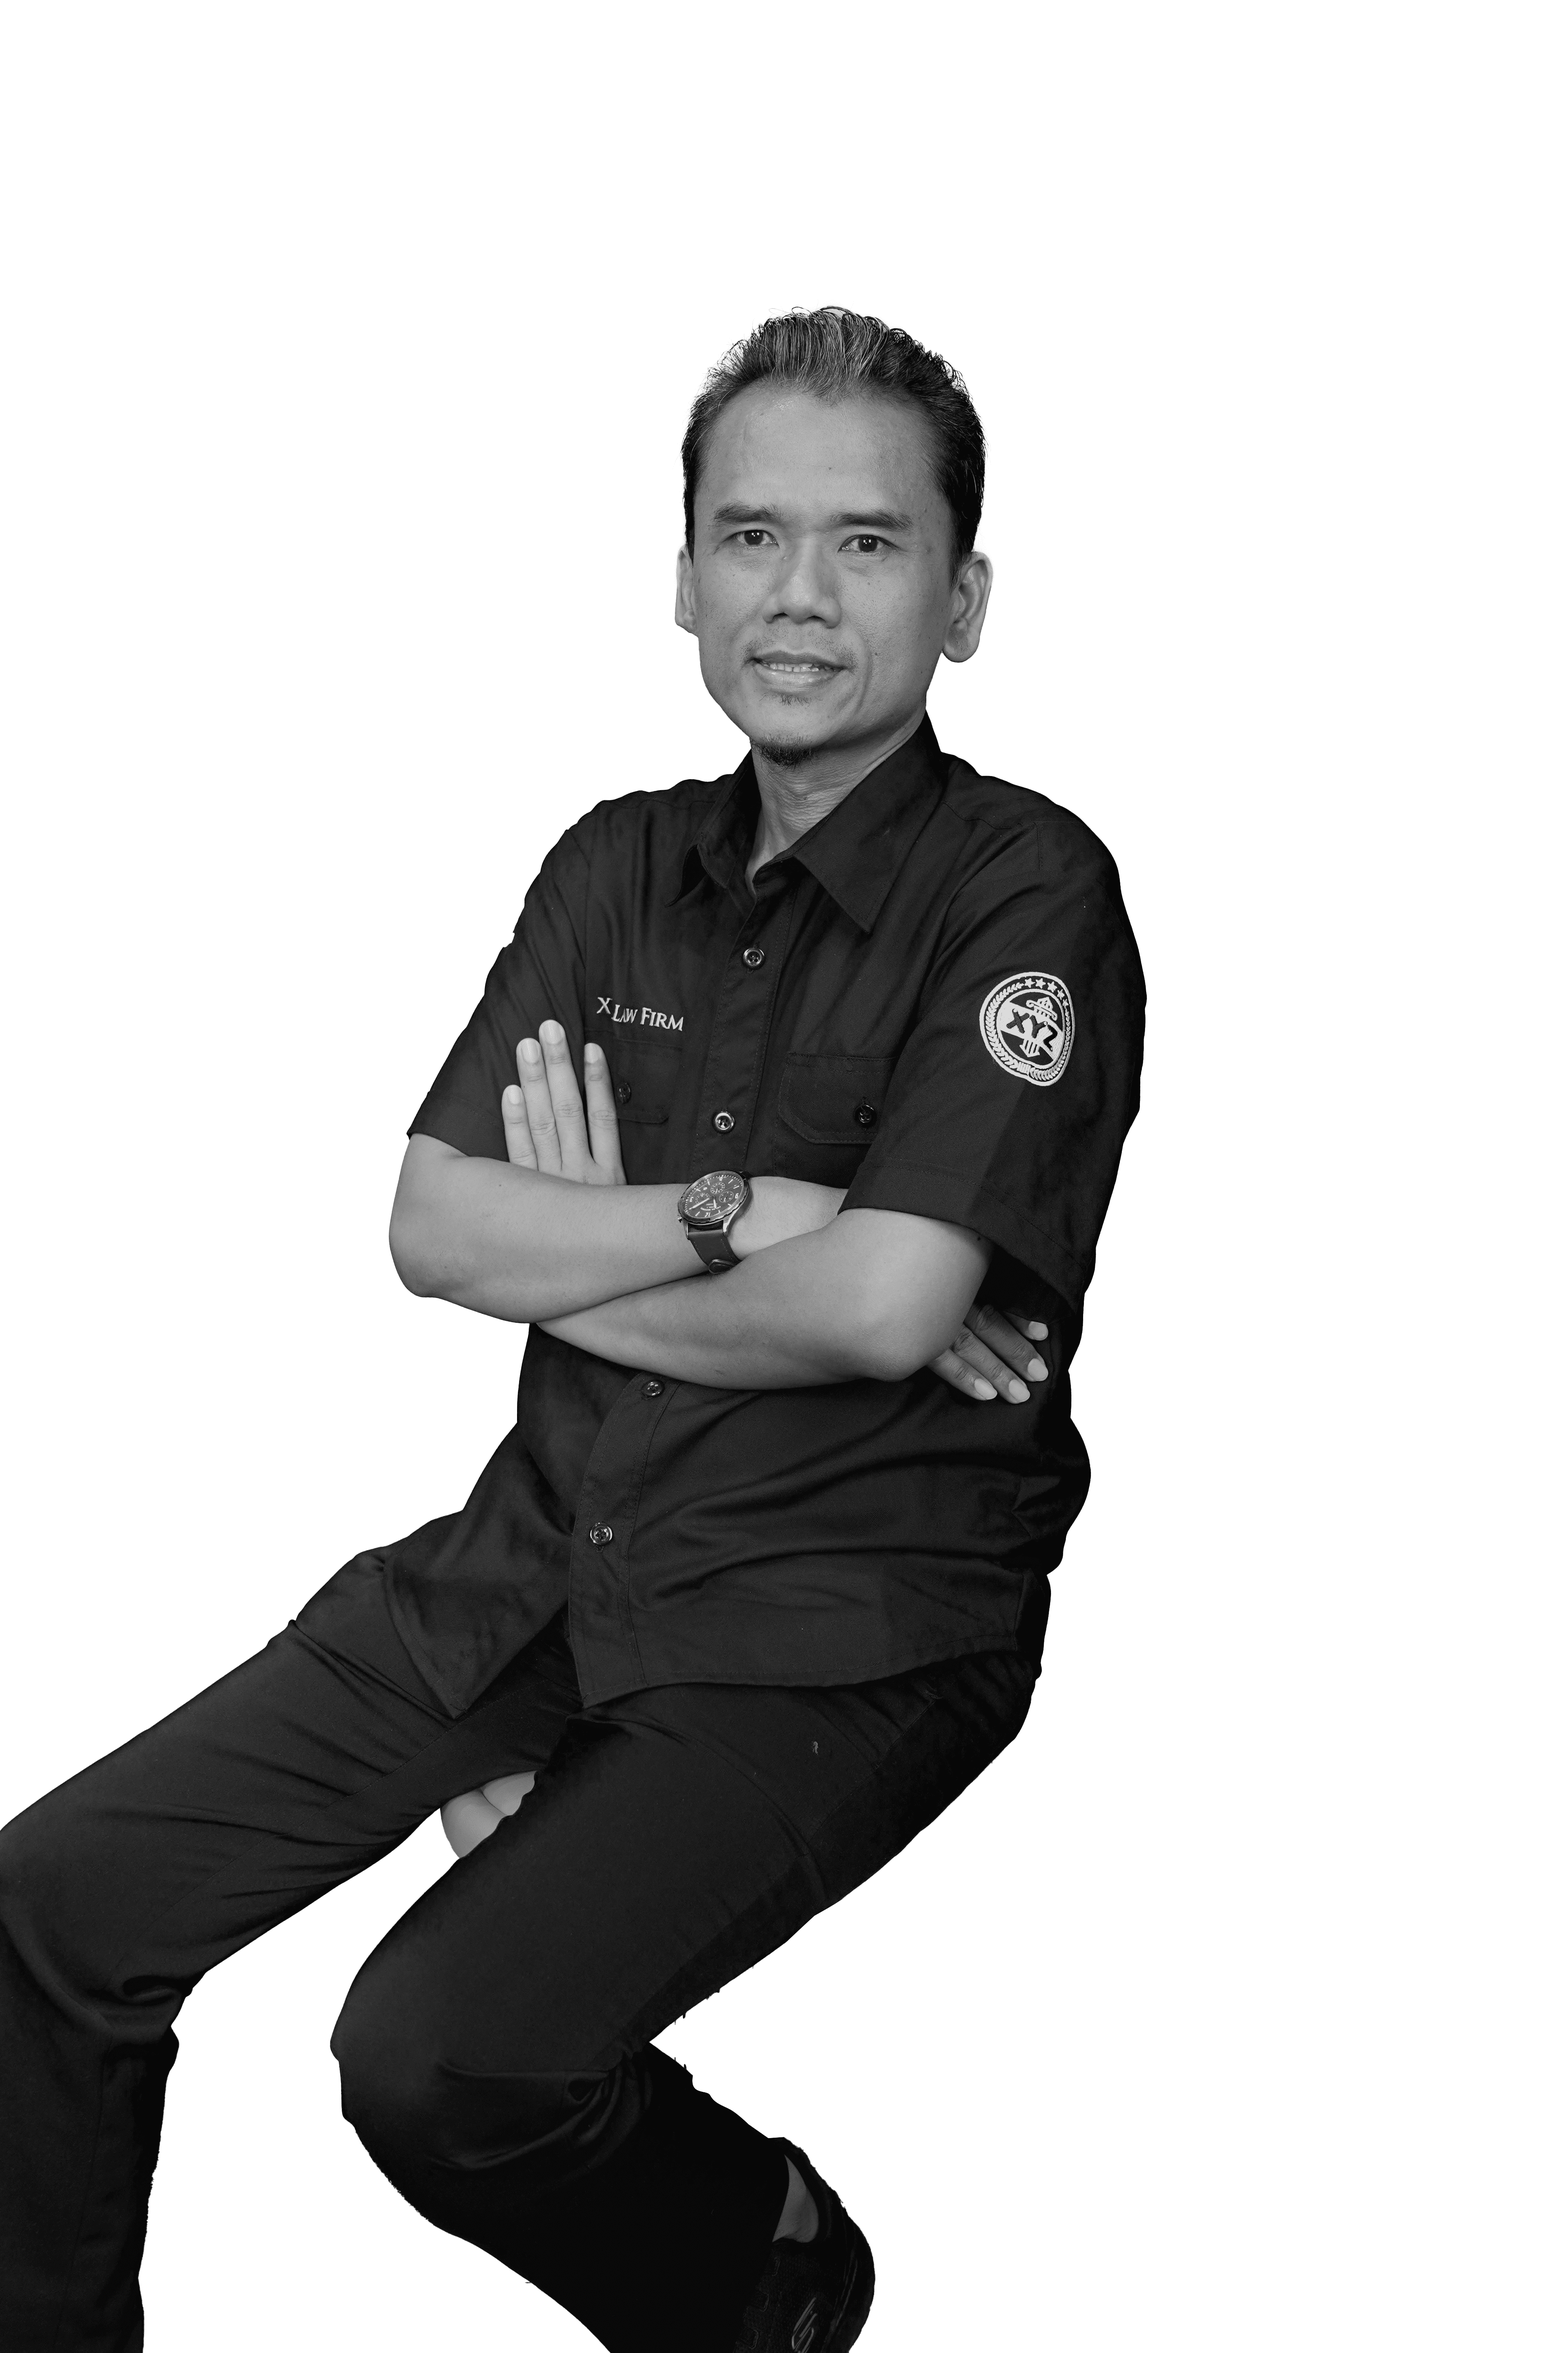
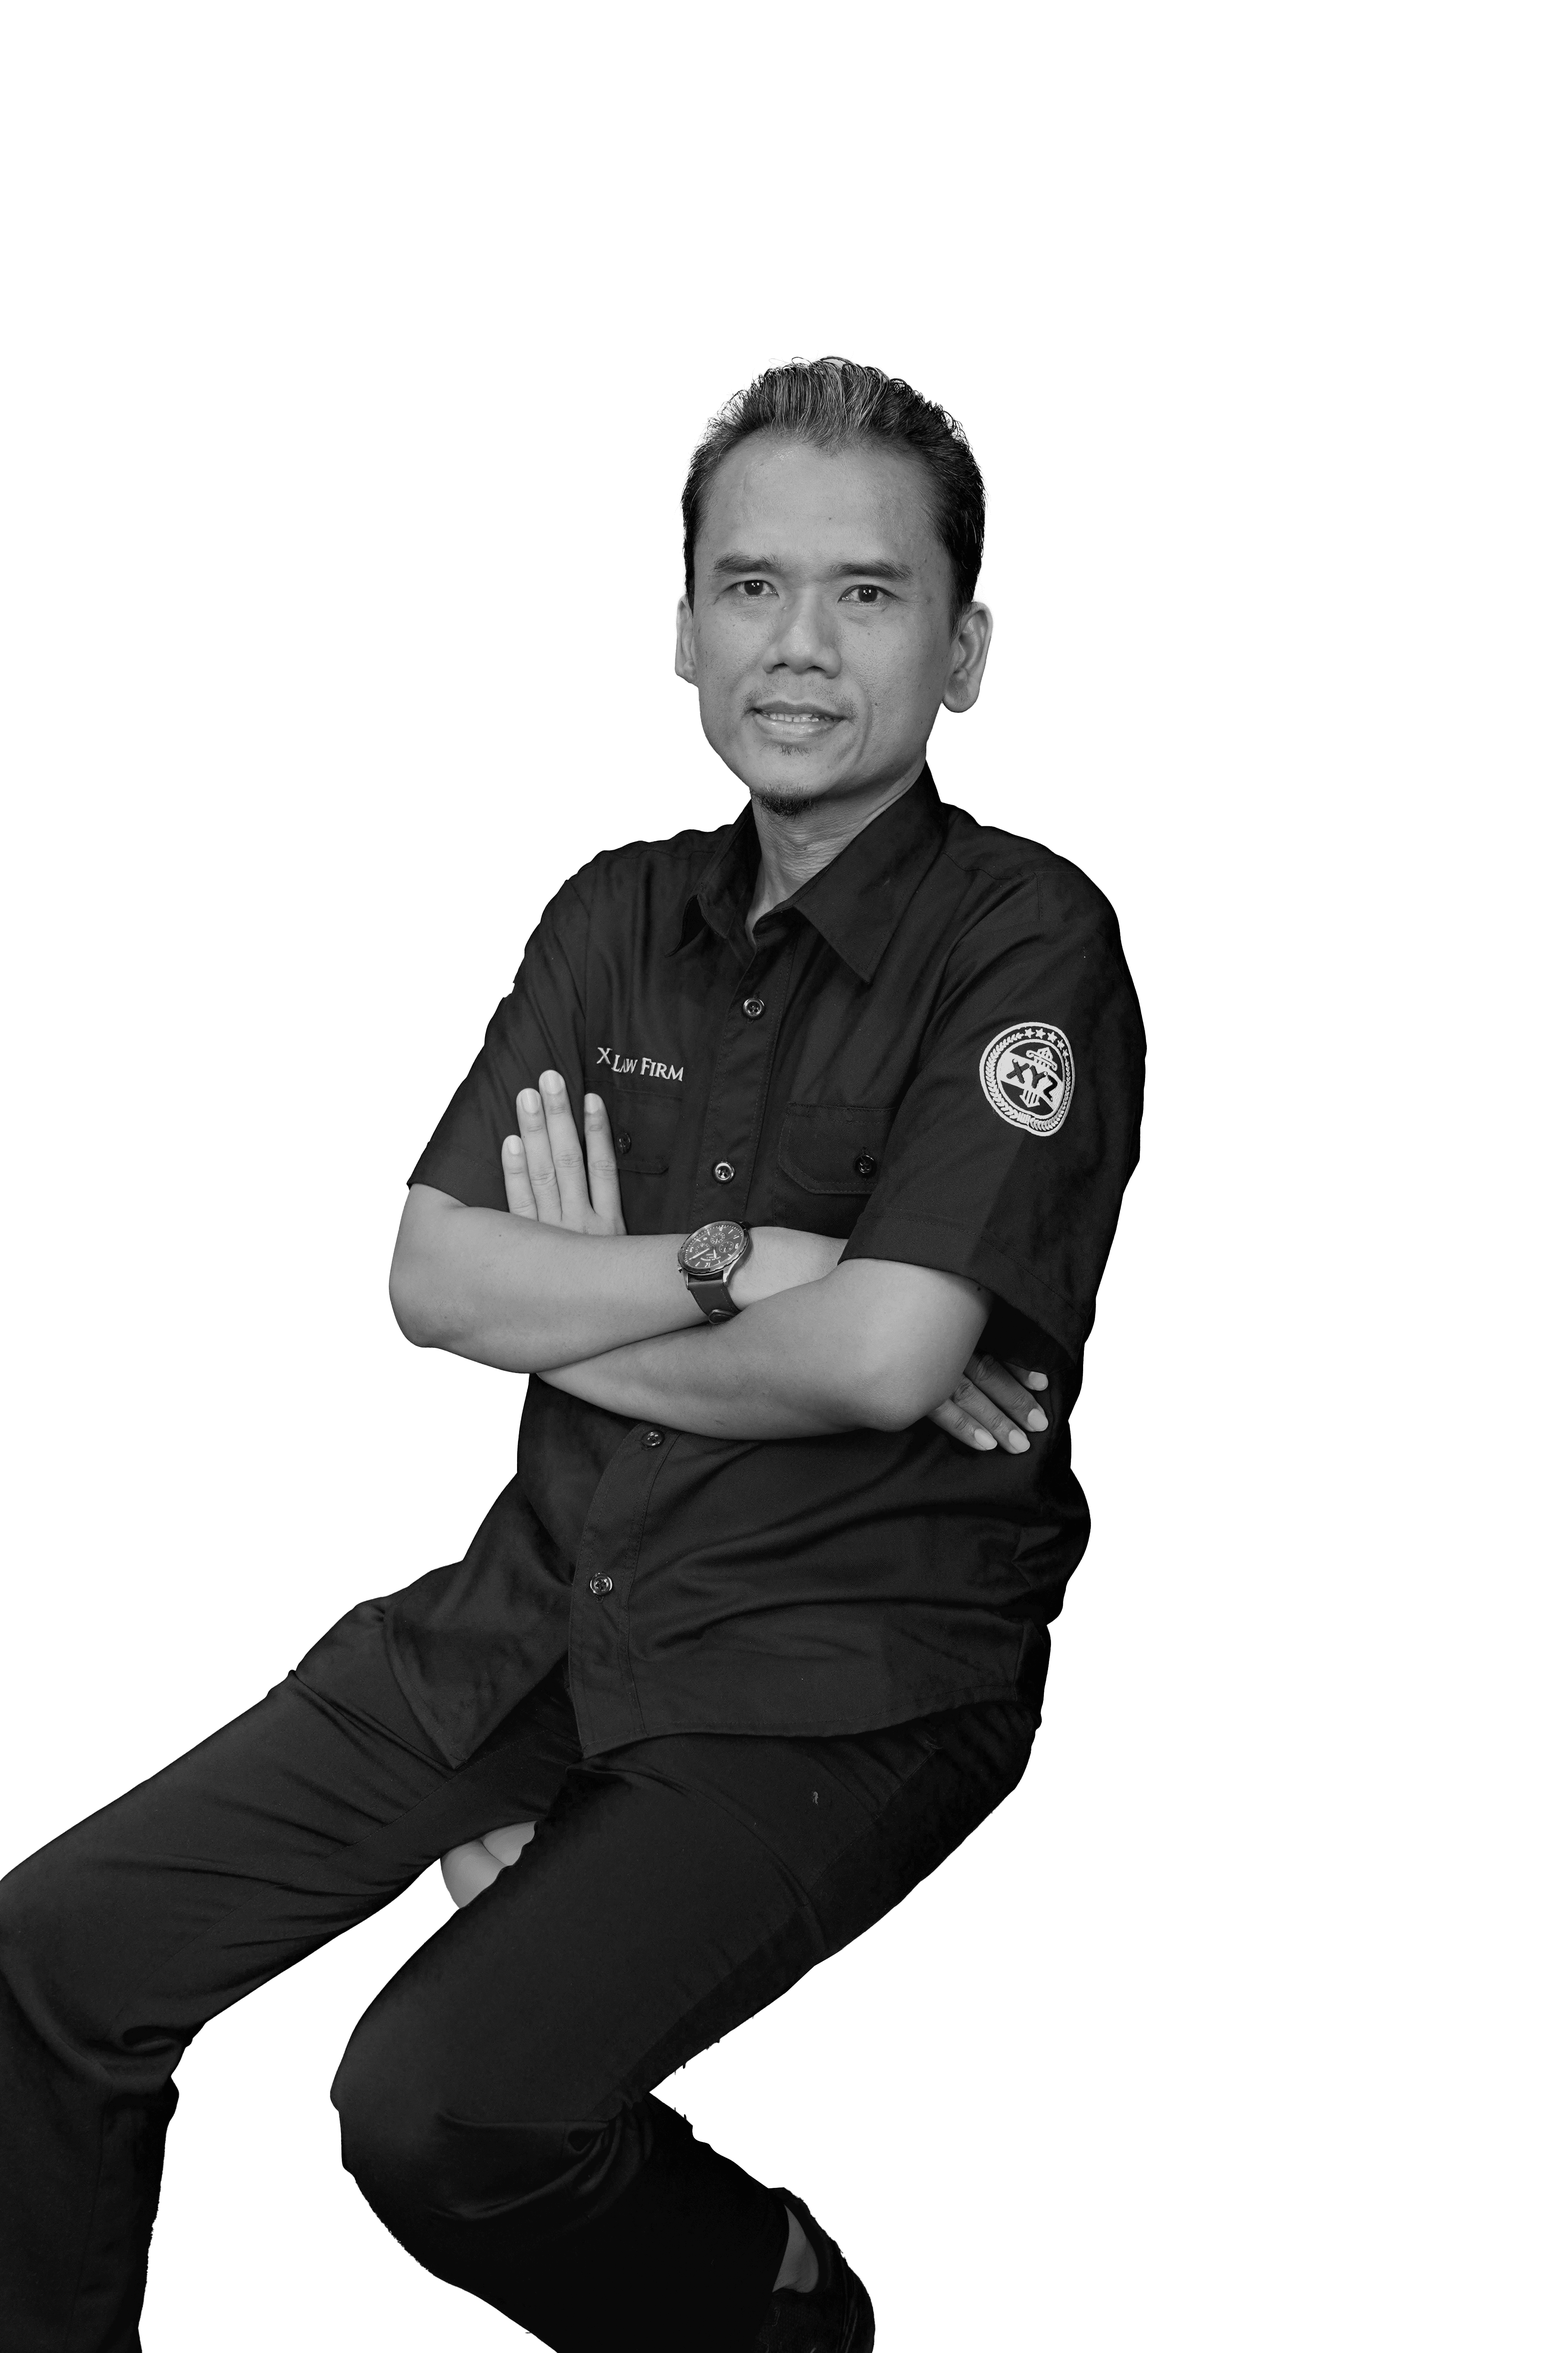
photo flip card adjusment

diff --git a/components/page-components/Our-Teams/Teams.jsx b/components/page-components/Our-Teams/Teams.jsx
@@ -4,21 +4,41 @@ import Image from "next/image";
 import AOS from "aos";
 import "aos/dist/aos.css";
 
-// Data Tim dengan gambar berbeda
+// Data Tim dengan deskripsi tambahan
 const teamMembers = [
-  { name: "Indah Sariwati", role: "Lawyer", image: "/Bu indah-min.png" },
-  { name: "Tariyanto", role: "Lawyer", image: "/Antok-min.png" },
-  { name: "Wahyudin", role: "Lawyer", image: "/Wahyudin-min.png" },
+  {
+    name: "Indah Sariwati",
+    role: "Managing Partner",
+    image: "/Bu indah-min.png",
+    description:
+      "Berpengalaman menangani berbagai masalah/kasus Hukum Perusahaan, Perizinan, Perdata, Kredit Macet, Penundaan Kewajiban Pembayaran Utang dan Kepailitan, Eksekusi Hak Tanggungan dan Lelang Eksekusi, Cessie (Pengalihan Piutang), menangani Perkara di Pengadilan Tata Usaha Negara, Pengadilan Negeri, Pengadilan Niaga, Pengadilan Agama, dll.",
+  },
+  {
+    name: "Tariyanto",
+    role: "Partner",
+    image: "/Antok-min.png",
+    description:
+      "Berpengalaman menangani kasus pidana, perdata, waris, perusahaan, pertanahan, pengurusan perizinan, Lelang dan Cessie, perburuhan/ketenagakerjaan, menangani Perkara di Pengadilan Tata Usaha Negara, Pengadilan Negeri, Pengadilan Niaga, Pengadilan Agama, Pengadilan Hubungan Indusrial, Pengadilan Tipikor, Mahkamah Konstitusi, dll.",
+  },
+  {
+    name: "Wahyudin",
+    role: "Partner",
+    image: "/Wahyudin-min.png",
+    description:
+      "Berpengalaman menangani kasus pidana, perdata, waris, pengurusan perijinan, perburuhan/ketenagakerjaan, menangani Perkara di Pengadilan Agama, Pengadilan Negeri, Pengadilan Hubungan Indusrial, Pengadilan Tata Usaha Negara, Pengadilan Niaga, dll.",
+  },
 ];
 
 const Teams = () => {
   const [currentIndex, setCurrentIndex] = useState(0);
   const slideRef = useRef(null);
+  const touchStartX = useRef(0);
+  const touchEndX = useRef(0);
 
   // Auto-slide setiap 3 detik
   useEffect(() => {
     const interval = setInterval(() => {
-      setCurrentIndex((prevIndex) => (prevIndex + 1) % teamMembers.length);
+      nextSlide();
     }, 3000);
     return () => clearInterval(interval);
   }, []);
@@ -28,26 +48,34 @@ const Teams = () => {
     AOS.init({ duration: 1000, once: true });
   }, []);
 
-  // Swipe functionality
+  // Pindah ke slide berikutnya
+  const nextSlide = () => {
+    setCurrentIndex((prevIndex) => (prevIndex + 1) % teamMembers.length);
+  };
+
+  // Pindah ke slide sebelumnya
+  const prevSlide = () => {
+    setCurrentIndex((prevIndex) =>
+      prevIndex === 0 ? teamMembers.length - 1 : prevIndex - 1
+    );
+  };
+
+  // Handle swipe di mobile
   const handleTouchStart = (e) => {
-    const touchStart = e.touches[0].clientX;
-    slideRef.current = touchStart;
+    touchStartX.current = e.touches[0].clientX;
   };
 
   const handleTouchEnd = (e) => {
-    const touchEnd = e.changedTouches[0].clientX;
-    const difference = slideRef.current - touchEnd;
+    touchEndX.current = e.changedTouches[0].clientX;
+    handleSwipe();
+  };
 
-    if (difference > 50) {
-      // Swipe ke kiri
-      setCurrentIndex((prevIndex) =>
-        prevIndex === teamMembers.length - 1 ? 0 : prevIndex + 1
-      );
-    } else if (difference < -50) {
-      // Swipe ke kanan
-      setCurrentIndex((prevIndex) =>
-        prevIndex === 0 ? teamMembers.length - 1 : prevIndex - 1
-      );
+  const handleSwipe = () => {
+    const swipeDistance = touchStartX.current - touchEndX.current;
+    if (swipeDistance > 50) {
+      nextSlide(); // Swipe ke kiri
+    } else if (swipeDistance < -50) {
+      prevSlide(); // Swipe ke kanan
     }
   };
 
@@ -58,26 +86,35 @@ const Teams = () => {
         <div className="text-center mb-12">
           <h2 className="text-4xl font-playfair font-bold mb-4">Tim Pengacara Kami</h2>
           <p className="text-gray-600">
-            Dengan pengalaman, dedikasi, dan keahlian, kami siap memberikan
-            solusi hukum terbaik untuk memenuhi kebutuhan Anda.
+            Dengan pengalaman, dedikasi, dan keahlian, kami siap memberikan solusi hukum terbaik untuk memenuhi kebutuhan Anda.
           </p>
         </div>
 
         {/* Grid untuk Desktop */}
-        <div className="hidden md:grid grid-cols-1 md:grid-cols-2 lg:grid-cols-3 gap-8 2xl:px-0 xl:px-0 px-10">
+        <div className="hidden md:grid grid-cols-1 md:grid-cols-2 lg:grid-cols-3 gap-8">
           {teamMembers.map((member, index) => (
             <div key={index} className="flex flex-col items-center">
-              {/* Foto */}
-              <div data-aos="flip-right" className="relative 2xl:w-[470px] 2xl:h-[470px] w-[350px] h-[350px]">
-                <Image
-                  src={member.image} // Gunakan gambar dari data
-                  alt={member.name}
-                  fill
-                  className="object-contain rounded-lg bg-gradient-to-tr from-black to-emerald-800"
-                />
+              {/* Kartu Flip */}
+              <div className="flip-card">
+                <div className="flip-card-inner">
+                  {/* Sisi Depan */}
+                  <div className="flip-card-front bg-gradient-to-tr from-black to-emerald-800">
+                    <Image
+                      src={member.image}
+                      alt={member.name}
+                      fill
+                      className="object-cover rounded-lg"
+                    />
+                  </div>
+                  {/* Sisi Belakang */}
+                  <div className="flip-card-back">
+                    <p className="text-white text-sm px-6">{member.description}</p>
+                  </div>
+                </div>
               </div>
+
               {/* Nama dan Peran */}
-              <div className="bg-gray-800 text-white text-center 2xl:w-full py-4 w-[350px] mt-4 rounded-lg shadow">
+              <div className="bg-gray-800 text-white text-center 2xl:w-[350px] w-full py-4 mt-4 rounded-lg shadow-lg">
                 <h3 className="text-lg font-semibold">{member.name}</h3>
                 <p className="text-sm">{member.role}</p>
               </div>
@@ -87,6 +124,7 @@ const Teams = () => {
 
         {/* Slider untuk Mobile */}
         <div
+          ref={slideRef}
           className="md:hidden overflow-hidden relative w-full"
           onTouchStart={handleTouchStart}
           onTouchEnd={handleTouchEnd}
@@ -99,34 +137,31 @@ const Teams = () => {
           >
             {teamMembers.map((member, index) => (
               <div key={index} className="flex flex-col items-center w-full shrink-0">
-                {/* Foto */}
-                <div className="relative w-[350px] h-[350px]">
-                  <Image
-                    src={member.image} // Gunakan gambar dari data
-                    alt={member.name}
-                    fill
-                    className="object-cover rounded-lg bg-gradient-to-tr from-black to-emerald-800"
-                  />
+                {/* Kartu Flip */}
+                <div className="flip-card">
+                  <div className="flip-card-inner">
+                    {/* Sisi Depan */}
+                    <div className="flip-card-front bg-gradient-to-tr from-black to-emerald-800">
+                      <Image
+                        src={member.image}
+                        alt={member.name}
+                       fill
+                        className="object-contain rounded-lg"
+                      />
+                    </div>
+                    {/* Sisi Belakang */}
+                    <div className="flip-card-back">
+                      <p className="text-white text-sm px-6">{member.description}</p>
+                    </div>
+                  </div>
                 </div>
+
                 {/* Nama dan Peran */}
-                <div className="bg-gray-800 text-white text-center w-[350px] py-4 mt-4 rounded-lg shadow">
+                <div className="bg-gray-800 text-white text-center w-full py-4 mt-4 rounded-lg shadow-lg">
                   <h3 className="text-lg font-semibold">{member.name}</h3>
                   <p className="text-sm">{member.role}</p>
                 </div>
               </div>
-            ))}
-          </div>
-
-          {/* Pagination */}
-          <div className="flex justify-center mt-4">
-            {teamMembers.map((_, index) => (
-              <button
-                key={index}
-                onClick={() => setCurrentIndex(index)}
-                className={`w-3 h-3 rounded-full mx-1 ${
-                  currentIndex === index ? "bg-main" : "bg-gray-400"
-                }`}
-              ></button>
             ))}
           </div>
         </div>

diff --git a/app/globals.css b/app/globals.css
@@ -51,3 +51,55 @@ h1, h2, h3, h4, h5, h6 {
   flex-shrink: 0;
   width: 100%;
 }
+
+
+/* Flip Card */
+.flip-card {
+  background-color: transparent;
+  width: 350px;
+  height: 400px;
+  perspective: 1000px; /* Efek 3D */
+}
+
+.flip-card-inner {
+  position: relative;
+  width: 100%;
+  height: 100%;
+  transition: transform 0.6s;
+  transform-style: preserve-3d;
+}
+
+.flip-card:hover .flip-card-inner {
+  transform: rotateY(180deg);
+}
+
+.flip-card-front,
+.flip-card-back {
+  position: absolute;
+  width: 100%;
+  height: 100%;
+  backface-visibility: hidden;
+  border-radius: 10px;
+}
+
+/* Sisi Depan */
+.flip-card-front {
+  background-color: #fff;
+  display: flex;
+  flex-direction: column;
+  align-items: center;
+  justify-content: center;
+}
+
+/* Sisi Belakang */
+.flip-card-back {
+  background-color: #1f2937;
+  color: white;
+  display: flex;
+  flex-direction: column;
+  align-items: center;
+  justify-content: center;
+  transform: rotateY(180deg);
+  padding: 20px;
+  text-align: center;
+}

diff --git a/components/footer/Footer.jsx b/components/footer/Footer.jsx
@@ -69,7 +69,7 @@ const Footer = () => {
 
           {/* Hukum Politik */}
           <div className="flex flex-col space-y-4">
-            <h2 className="text-lg font-bold text-main">Hukum Politik</h2>
+            <h2 className="text-lg font-bold text-main">Hukum Publik</h2>
             <ul className="space-y-2">
               <li><a href="/area-praktik/hukum-publik/hukum-pidana" className="hover:text-main transition">Hukum Pidana</a></li>
               <li><a href="/area-praktik/hukum-publik/hukum-tata-usaha-negara" className="hover:text-main transition">Hukum Tata Usaha Negara</a></li>
